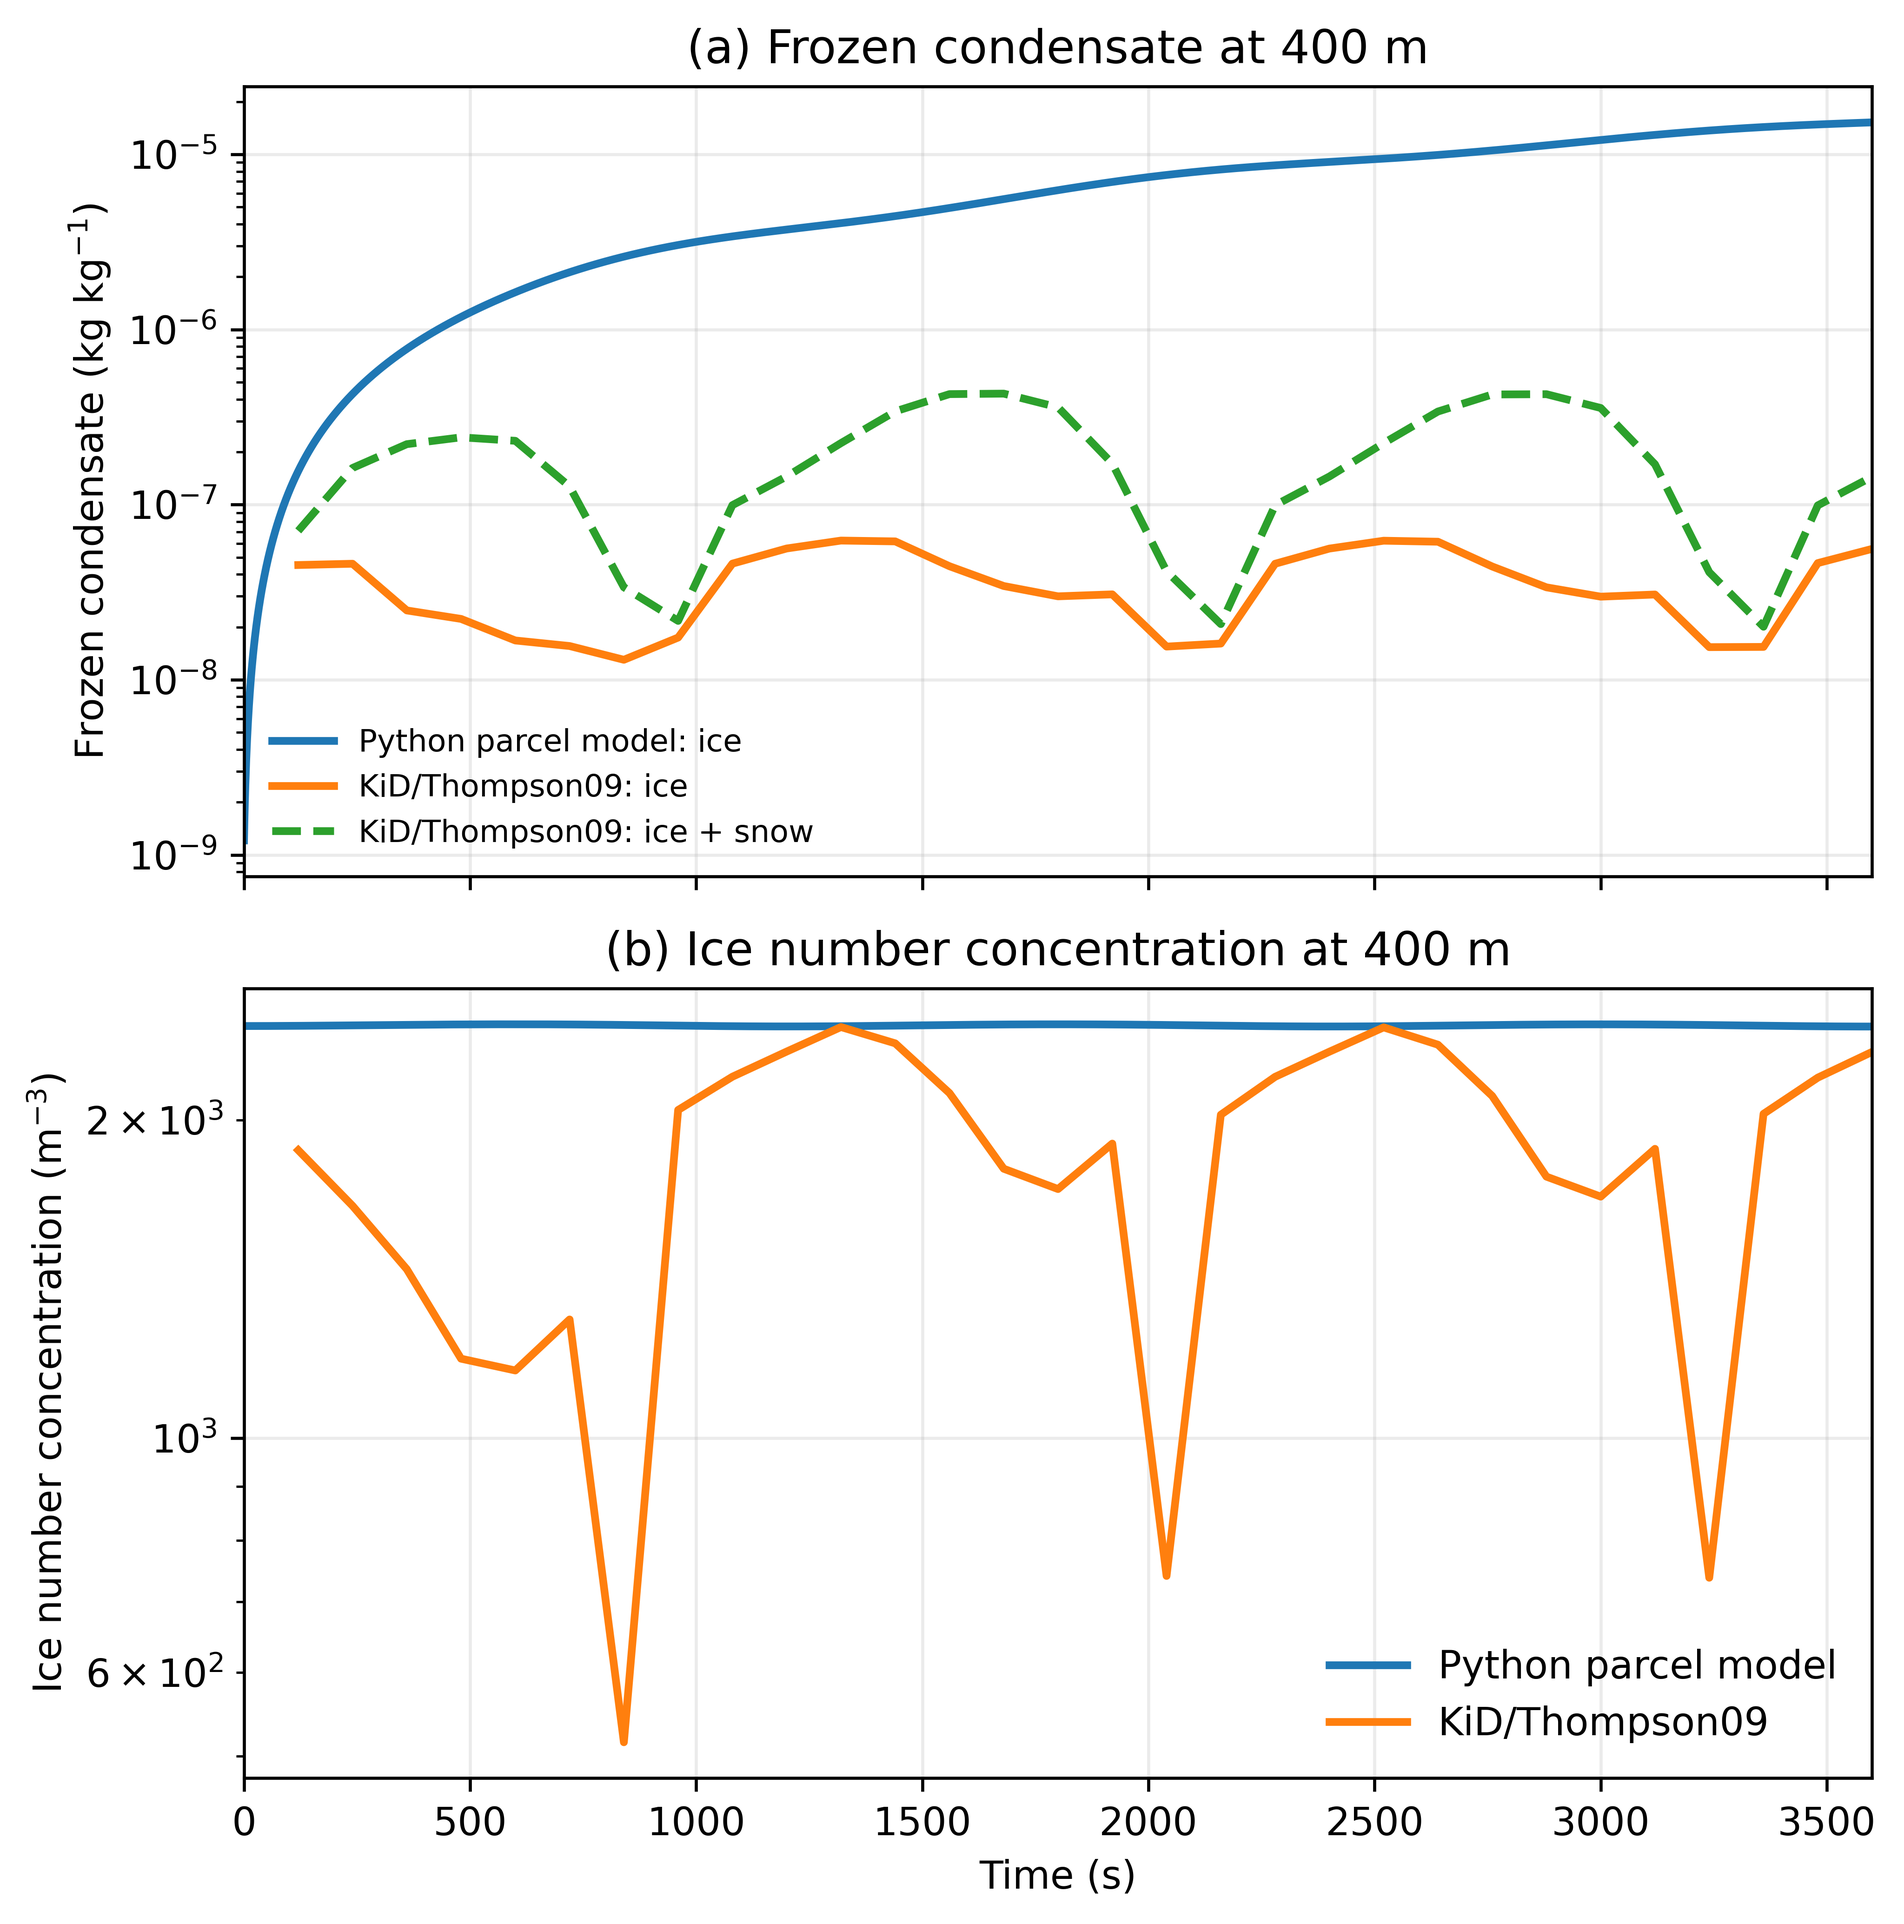
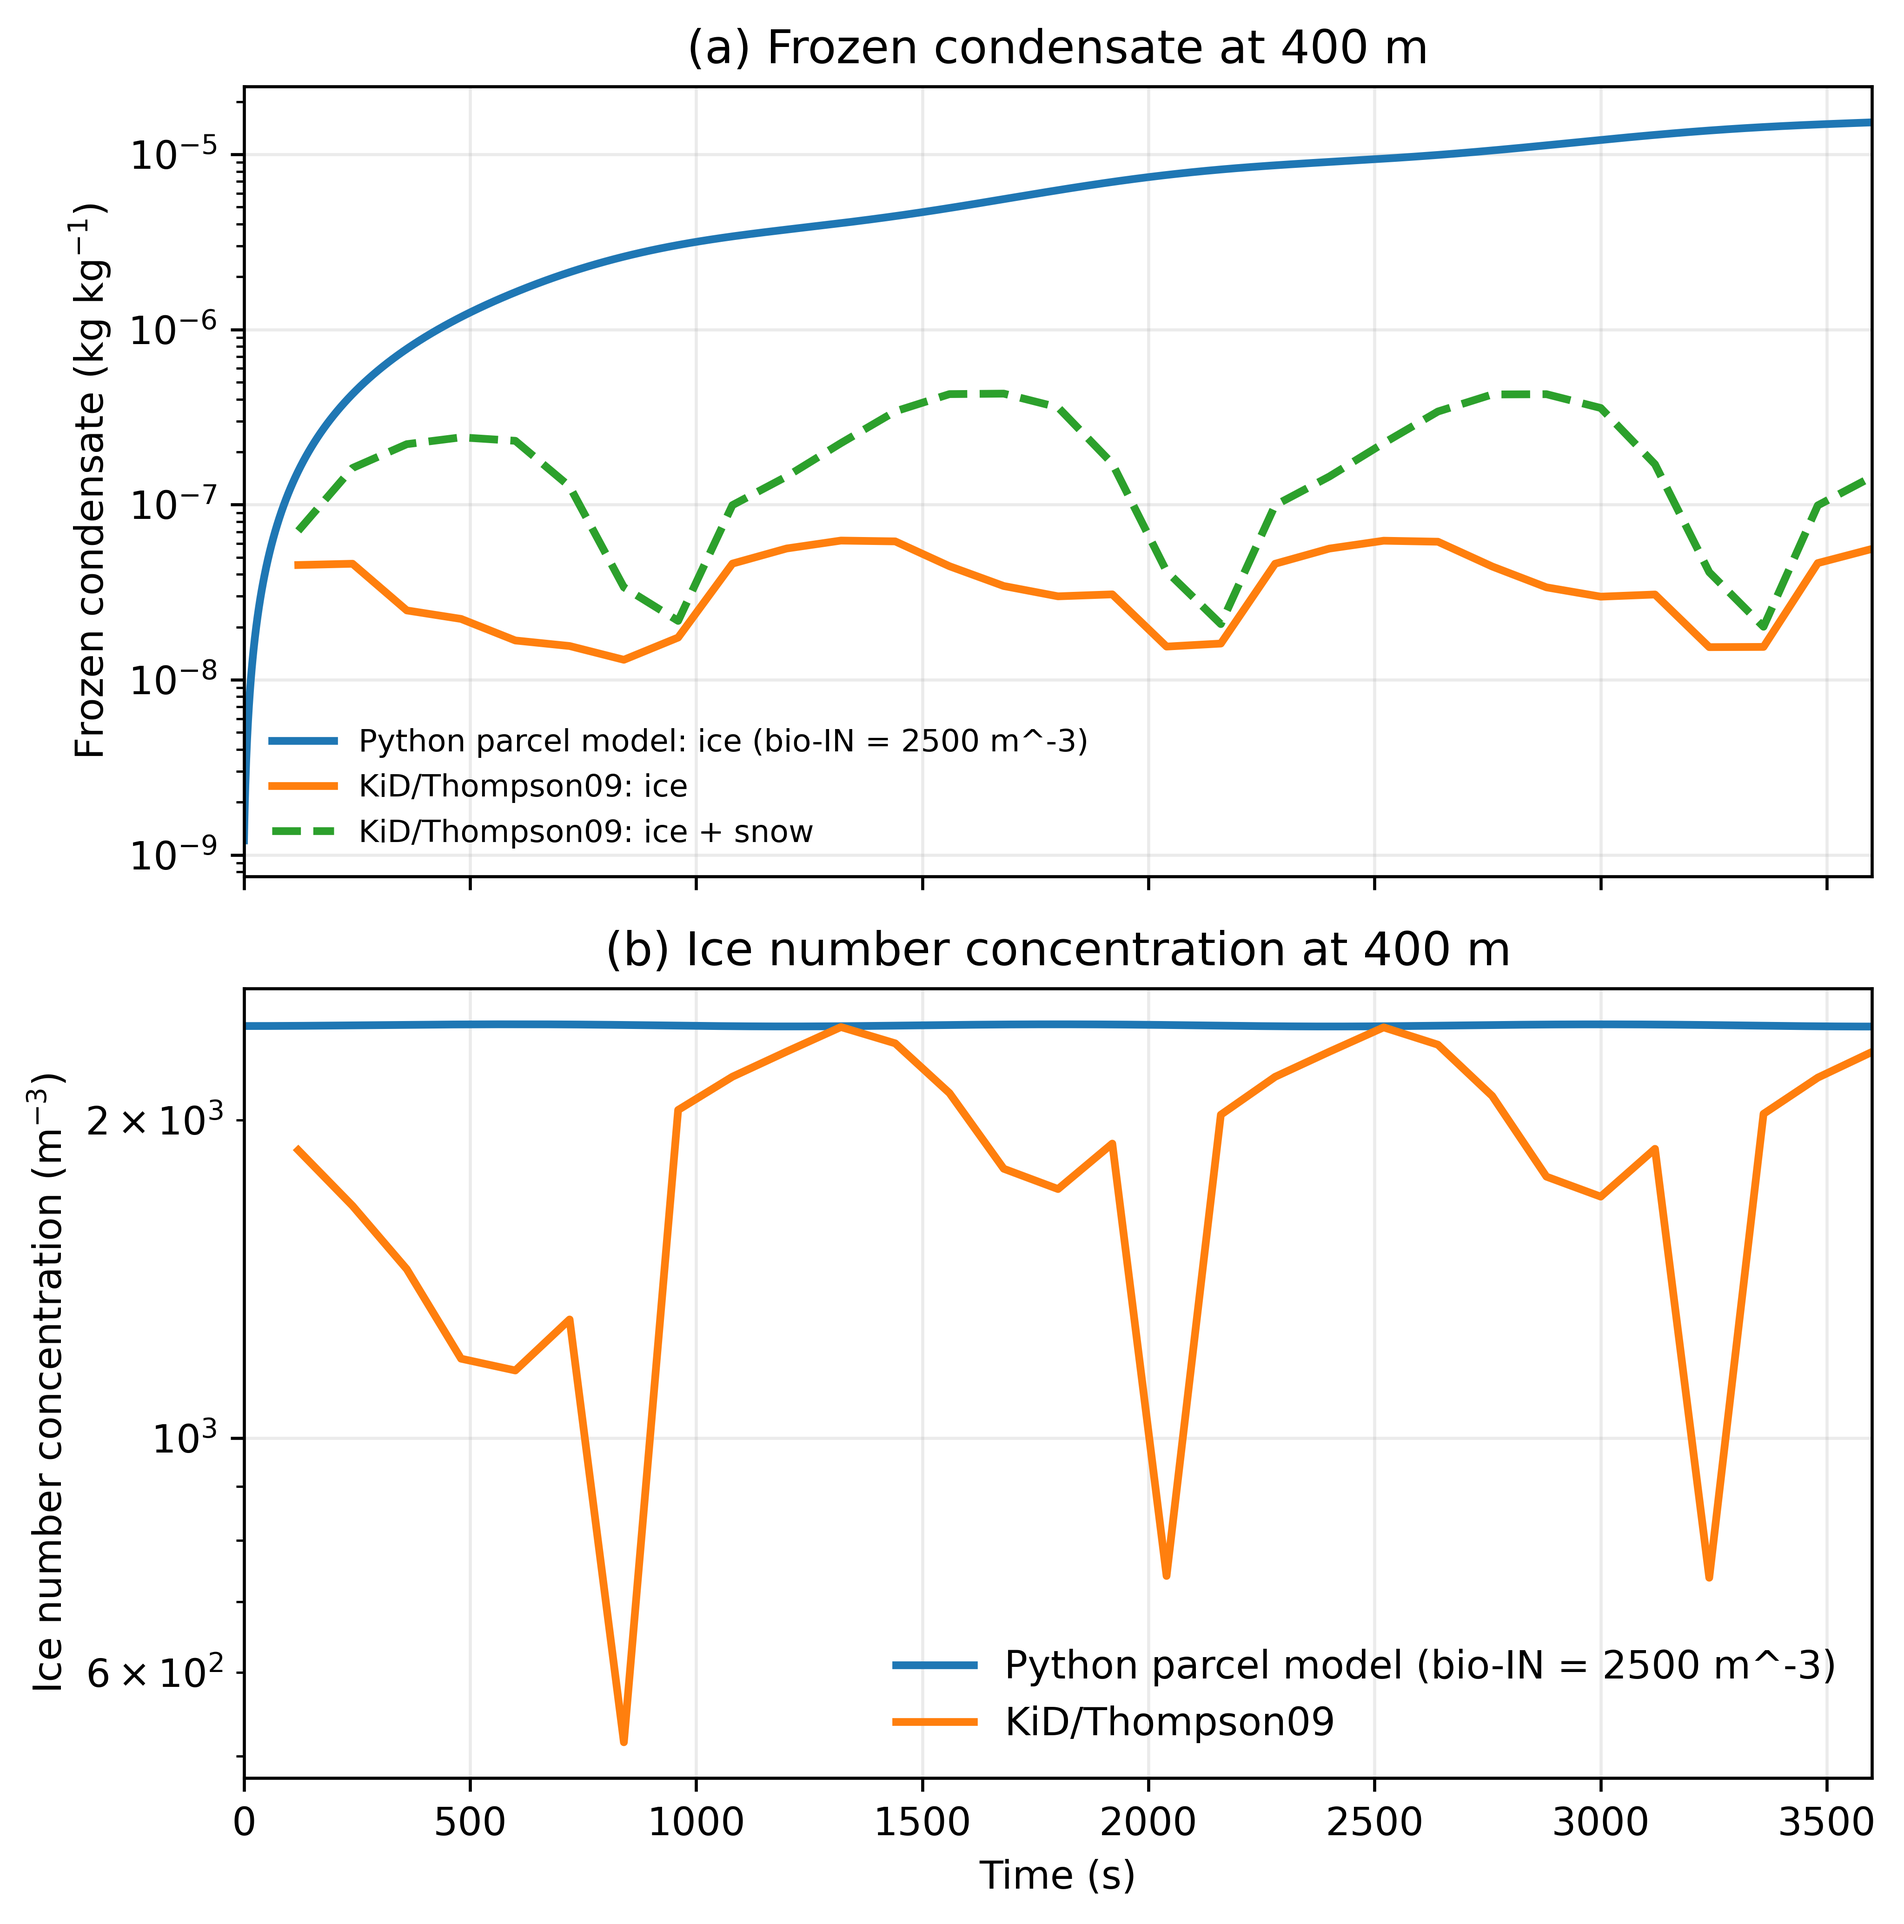
Clarify matched-number sensitivity in mixed-phase figure

diff --git a/experiments/plot_publication_mixed_phase_comparison.py b/experiments/plot_publication_mixed_phase_comparison.py
@@ -113,7 +113,7 @@ axes[0].plot(
     py["t_s"],
     py["qice_kgkg"],
     linewidth=2.0,
-    label="Python parcel model: ice",
+    label="Python parcel model: ice (bio-IN = 2500 m^-3)",
 )
 
 axes[0].plot(
@@ -143,7 +143,7 @@ axes[1].plot(
     py["t_s"],
     py["Nice_m3"],
     linewidth=2.0,
-    label="Python parcel model",
+    label="Python parcel model (bio-IN = 2500 m^-3)",
 )
 
 axes[1].plot(
